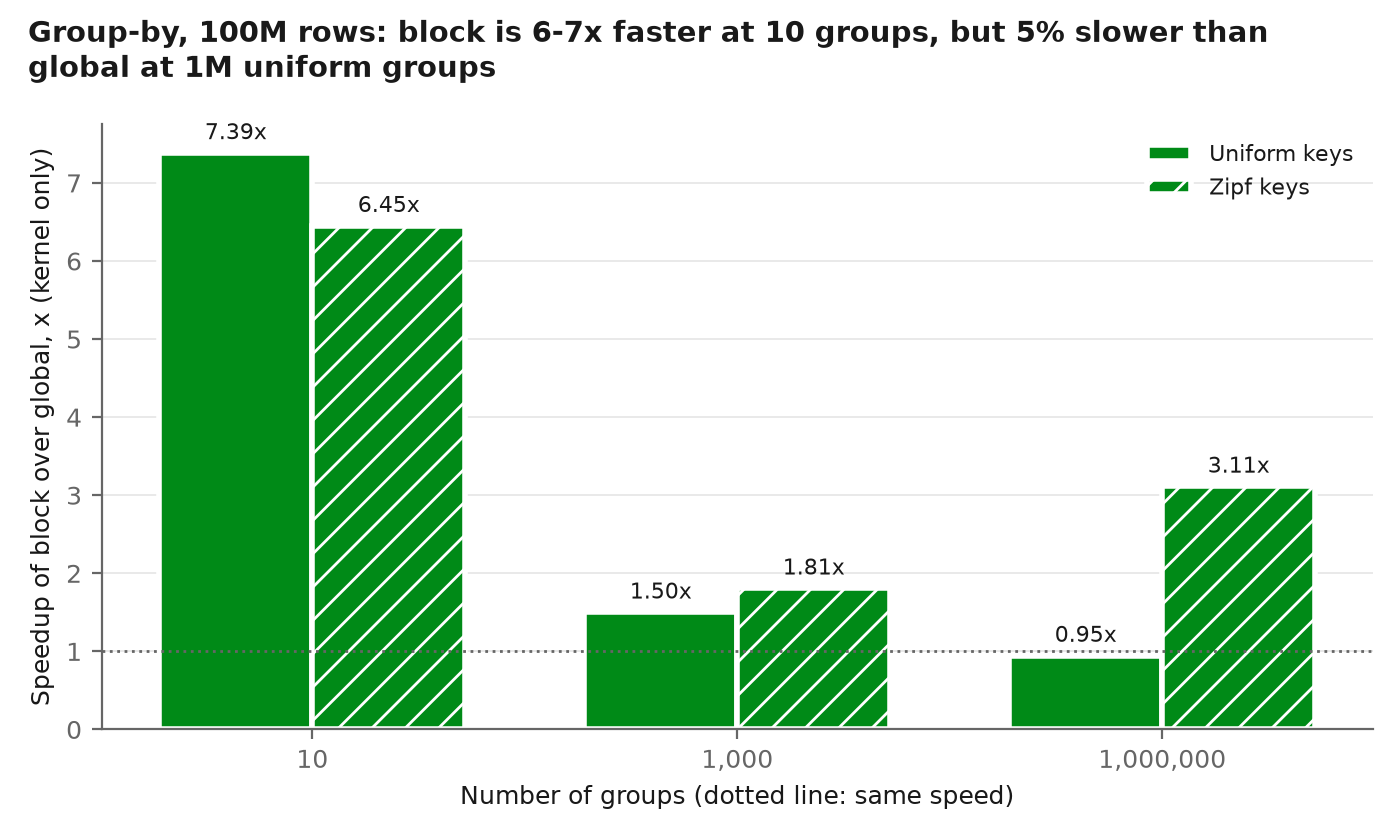
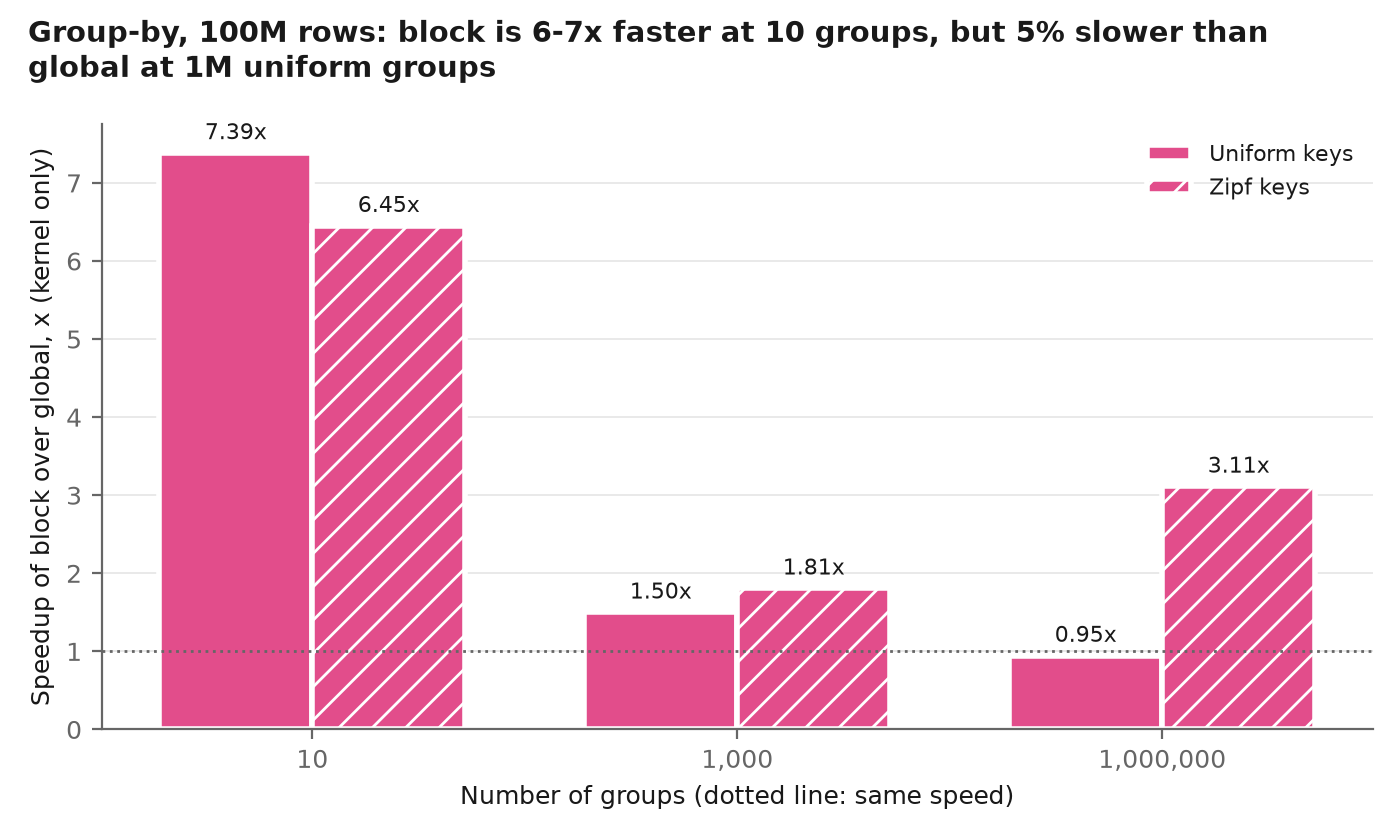
Rerun filter crossover points; chart colors and end labels
filter.csv: 50M and 200M at 10% for pandas, Polars, DuckDB and GPU
pageable/pinned, plus pandas 100M, rerun 3x; medians stored. plot.py: GPU
is magenta in every chart (four engine colors pass the validator on all
pairs), no legend on the line charts, and end labels are pushed apart
so none overlap.

diff --git a/benchmarks/plot.py b/benchmarks/plot.py
@@ -14,16 +14,14 @@ from matplotlib.ticker import FuncFormatter
 RESULTS = Path(__file__).parent / "results"
 FIGS = Path(__file__).parent.parent / "docs" / "figures"
 
-# One color per engine in every chart. Slots 1-6 of the dataviz reference palette,
-# in its validated order (colorblind-safe on adjacent pairs, light surface).
-COLOR = {
-    "pandas": "#257de0", "polars": "#f47230", "duckdb": "#00b894",
-    "filter_own": "#f2a600", "global": "#ee7fac", "block": "#008a17",
-}
+# One color per engine in every chart, from the dataviz reference palette. These four pass
+# the validator on ALL pairs (colorblind and normal vision, light surface). All GPU lines
+# share one color; line style tells GPU variants apart.
+COLOR = {"pandas": "#257de0", "polars": "#f2a600", "duckdb": "#008a17", "gpu": "#e24d8b"}
 COPY_GRAY = "#9c9c9c"  # not an engine: the copy part of a GPU bar
 TEXT, TEXT2, GRID = "#191919", "#666666", "#e5e5e5"
-LABEL = {"pandas": "pandas", "polars": "Polars", "duckdb": "DuckDB",
-         "global": "GPU global (pinned)", "block": "GPU block (pinned)"}
+LABEL = {"pandas": "pandas", "polars": "Polars", "duckdb": "DuckDB"}
+LABEL_GAP_PT = 12  # smallest vertical distance between two end labels
 
 plt.rcParams.update({
     "font.size": 9, "axes.edgecolor": TEXT2, "axes.labelcolor": TEXT, "text.color": TEXT,
@@ -48,18 +46,35 @@ def plain_fmt(x, _):
     return f"{x:,.0f}" if x >= 1 else f"{x:g}"
 
 
-def line(ax, xs, ys, key, label, dashed=False, dy=0):
-    """2px line with markers and a direct label at its right end (text stays in text ink).
-    dy moves the label up or down in points when two lines end at about the same value."""
+def line(ax, xs, ys, key, label, dashed=False):
+    """2px line with markers. Returns its end point and label for end_labels()."""
     ax.plot(xs, ys, color=COLOR[key], lw=2, ls="--" if dashed else "-", marker="o", ms=5,
-            mec="white", mew=1, label=label)
-    ax.annotate(label, (xs[-1], ys[-1]), xytext=(6, dy), textcoords="offset points",
-                va="center", fontsize=8, color=TEXT)
+            mec="white", mew=1)
+    return xs[-1], ys[-1], label
 
 
-def save(fig, name, title):
+def end_labels(ax, ends):
+    """Write each line's label at its right end, pushed apart so no two overlap.
+    Works in screen points, so it is right on log and linear axes. Text stays in text ink."""
+    ax.set_ylim(ax.get_ylim())  # freeze the axis so the positions below stay true
+    pt = 72 / ax.figure.dpi
+    ends = sorted(ends, key=lambda e: ax.transData.transform(e[:2])[1])
+    want = [ax.transData.transform(e[:2])[1] * pt for e in ends]
+    placed = []
+    for y in want:  # bottom to top: each label at least LABEL_GAP_PT above the one below
+        placed.append(max(y, placed[-1] + LABEL_GAP_PT) if placed else y)
+    shift = (sum(want) - sum(placed)) / len(placed)  # center the group on its lines again
+    for (x, y, text), w, p in zip(ends, want, placed):
+        ax.annotate(text, (x, y), xytext=(6, p + shift - w), textcoords="offset points",
+                    va="center", fontsize=8, color=TEXT)
+
+
+def save(fig, name, title, ends=None):
+    """ends = (ax, end points): labels go on after the layout is final, so they are placed right."""
     fig.suptitle(textwrap.fill(title, 75), x=0.02, ha="left", fontsize=10.5, fontweight="bold")
     fig.tight_layout()
+    if ends:
+        end_labels(*ends)
     fig.savefig(FIGS / name, dpi=200, facecolor="white")
     plt.close(fig)
     print("wrote", FIGS / name)
@@ -68,21 +83,20 @@ def save(fig, name, title):
 def filter_crossover(f):
     sizes = sorted({int(k[1]) for k in f})
     fig, ax = plt.subplots(figsize=(8, 4.6))
-    # Polars and GPU pageable end close together: split their labels.
-    for e, dy in (("pandas", 0), ("polars", -5), ("duckdb", 0)):
-        line(ax, sizes, [f[(e, str(n), "10", "cpu")] for n in sizes], e, LABEL[e], dy=dy)
-    for mode, dashed, dy in (("e2e_pageable", True, 5), ("e2e_pinned", False, 0)):
+    ends = [line(ax, sizes, [f[(e, str(n), "10", "cpu")] for n in sizes], e, LABEL[e])
+            for e in ("pandas", "polars", "duckdb")]
+    for mode, dashed in (("e2e_pageable", True), ("e2e_pinned", False)):
         ys = [f[("filter_own", str(n), "10", mode)] for n in sizes]
-        line(ax, sizes, ys, "filter_own", f"GPU filter {mode[4:]}", dashed, dy)
+        ends.append(line(ax, sizes, ys, "gpu", f"GPU filter {mode[4:]}", dashed))
     ax.set(xscale="log", yscale="log", xlabel="Rows (log scale)",
            ylabel="Median time, ms (log scale)")
     ax.xaxis.set_major_formatter(FuncFormatter(rows_fmt))
     ax.yaxis.set_major_formatter(FuncFormatter(plain_fmt))
     ax.set_xticks(sizes)
     ax.set_xlim(right=sizes[-1] * 3.2)  # room for the end labels
-    ax.legend(loc="upper left", fontsize=8)
     save(fig, "filter_crossover.png", "Filter, 10% selectivity: GPU beats pandas and DuckDB at "
-         "every size. Pinned beats Polars from 10M rows; pageable beats it only at 10M")
+         "every size. Pinned beats Polars from 10M rows; pageable beats it only at 10M",
+         (ax, ends))
 
 
 def filter_time_split(f):
@@ -94,7 +108,7 @@ def filter_time_split(f):
     copies[0] = 0.0  # kernel_only has no copy by definition
     fig, ax = plt.subplots(figsize=(7, 4.2))
     x = range(len(modes))
-    ax.bar(x, [kernel] * 3, width=0.55, color=COLOR["filter_own"], label="Kernel",
+    ax.bar(x, [kernel] * 3, width=0.55, color=COLOR["gpu"], label="Kernel",
            edgecolor="white", linewidth=2)
     ax.bar(x, copies, bottom=kernel, width=0.55, color=COPY_GRAY,
            label="Copy and transfer overhead", edgecolor="white", linewidth=2)
@@ -114,22 +128,19 @@ def filter_time_split(f):
 def groupby_by_groups(g):
     n, groups = "100000000", [10, 1_000, 1_000_000]
     fig, ax = plt.subplots(figsize=(8, 4.6))
-    # pandas and DuckDB end at about the same time, and so do global and block: split the labels.
-    for e, dy in (("pandas", -7), ("polars", 0), ("duckdb", 7)):
-        ys = [g[(e, "-", n, str(k), "uniform", "cpu")] for k in groups]
-        line(ax, groups, ys, e, LABEL[e], dy=dy)
-    for st, dy in (("global", -7), ("block", 7)):
+    ends = [line(ax, groups, [g[(e, "-", n, str(k), "uniform", "cpu")] for k in groups],
+                 e, LABEL[e]) for e in ("pandas", "polars", "duckdb")]
+    for st, dashed in (("global", True), ("block", False)):
         ys = [g[("hash_groupby", st, n, str(k), "uniform", "e2e_pinned")] for k in groups]
-        line(ax, groups, ys, st, LABEL[st], dy=dy)
+        ends.append(line(ax, groups, ys, "gpu", f"GPU {st} (pinned)", dashed))
     ax.set(xscale="log", yscale="log", xlabel="Number of groups (log scale)",
            ylabel="Median time, ms (log scale)")
     ax.set_xticks(groups)
     ax.xaxis.set_major_formatter(FuncFormatter(plain_fmt))
     ax.yaxis.set_major_formatter(FuncFormatter(plain_fmt))
     ax.set_xlim(5, 2e7)  # room for the end labels
-    ax.legend(loc="upper left", fontsize=8)
     save(fig, "groupby_by_groups.png", "Group-by, 100M rows, uniform keys: GPU block beats every "
-         "CPU engine at all group counts; global loses to Polars at 10")
+         "CPU engine at all group counts; global loses to Polars at 10", (ax, ends))
 
 
 def groupby_block_speedup(g):
@@ -141,7 +152,7 @@ def groupby_block_speedup(g):
               g[("hash_groupby", "block", n, k, dist, "kernel_only")] for k in groups]
         xs = [i + (j - 0.5) * w for i in range(len(groups))]
         # Same engine (block) both times: texture, not a second hue, tells the keys apart.
-        ax.bar(xs, sp, width=w, color=COLOR["block"], hatch="//" if dist == "zipf" else None,
+        ax.bar(xs, sp, width=w, color=COLOR["gpu"], hatch="//" if dist == "zipf" else None,
                edgecolor="white", linewidth=2, label=f"{dist.capitalize()} keys")
         for x, s in zip(xs, sp):
             ax.annotate(f"{s:.2f}x", (x, s), xytext=(0, 3), textcoords="offset points",

diff --git a/docs/known-issues.md b/docs/known-issues.md
@@ -11,7 +11,8 @@
 - Group-by needs the caller to give expected_groups. Too low gives an error, too high wastes memory.
 - Group-by output is in slot (hash) order, not key order.
 - CPU rerun, 3x each (2026-11-26): Polars 1K Zipf 100M 701/718/711 ms (repeats); Polars 1K 10M 49-55 ms uniform, 63-65 ms Zipf (repeats); DuckDB 1M uniform 100M 4175/6473/8673 ms (noisy, 2x spread; median of runs is within 5% of the CSV).
-- Filter rerun at 10%, 3x each (2026-11-26): pandas 100M gave 1676/1501/413 ms (two modes, fast and slow; cause unknown). The CSV now has 1501 ms (was 401). pandas 200M (793 ms) is now the suspect point, as it is faster than 100M. DuckDB 100M repeats (186/186/197 vs 181 ms). DuckDB 50M is noisy (262/363/293 ms), so its dip at 100M is probably 50M noise.
+- Filter crossover rerun at 10%, 3x each, medians in `filter.csv` (2026-11-26): 50M and 200M for all 5 lines, pandas 100M. The old 50M points were slow for every CPU engine (pandas 627 to 194 ms). pandas 100M has two modes (earlier runs 1676/1501/413, now 586/393/396 ms); the CSV has 396 ms.
+- GPU filter e2e_pageable still goes down from 50M to 100M (64.3 to 59.9 ms). The 50M runs had a wide spread (75/64/53 ms); 100M was not rerun. All other crossover lines go up with rows.
 - Chart titles are fixed text. Rerun the benchmarks and the titles can be wrong.
 - Group-by rerun (2026-11-26, both strategies): the old GPU 10M 1K-groups point (7.7 ms) is now 1.99 ms, below e2e_pinned. Still suspect: Polars 1K Zipf at 100M is 710 ms vs 106 ms uniform (also 717 ms in the first run, so it repeats; cause unknown). Polars 1K groups at 10M is 48 ms, 4.8 ms per 1M rows, vs 1.1 ms per 1M rows at 100M. DuckDB 1M uniform groups at 100M is 6815 ms, 4x its Zipf time.
 - Group-by with 1M groups: the table is 2M slots x 16 bytes = 32 MB, about the size of the L2 cache, so the random atomics go to DRAM. That is why 1M groups is slower than 1K groups.

diff --git a/docs/decisions.md b/docs/decisions.md
@@ -22,5 +22,5 @@
 - Block group-by: each block takes 4096 rows (16 per thread), not 256. With one row per thread, a block sees at most 256 keys, so a 1024-slot table can never fill and there would be no fallback case to test.
 - Shared table: 1024 slots x 16 bytes = 16 KB per block. A row probes at most 32 shared slots, then goes straight to the global table, so a full shared table does not cost 1024 probes per row.
 - `groupby.csv` keeps one `engine` (`hash_groupby`) and adds a `strategy` column, so a filter on one column picks a strategy. CPU rows have `-`.
-- Charts: one fixed color per engine (dataviz reference palette slots 1-6, validator pass on light surface). Copy time = e2e time minus kernel_only time, so it includes allocation overhead. Uniform vs Zipf use texture, not a second hue, because both are the block engine.
+- Charts: one fixed color per engine: pandas blue, Polars yellow, DuckDB green, GPU magenta. These four pass the dataviz validator on all pairs, not only adjacent ones. All GPU variants share magenta; dashed = pageable or global. No legend on line charts; end labels are pushed apart in screen points so none overlap. Copy time = e2e time minus kernel_only time, so it includes allocation overhead. Uniform vs Zipf use texture, not a second hue.
 - One `__device__ add_global` for both strategies and for the flush, so there is only one global probe loop.

diff --git a/docs/progress.md b/docs/progress.md
@@ -18,7 +18,7 @@
 - Block vs global kernel_only: 10 groups 5.4 to 7.4x faster, 1K groups 1.3 to 1.8x faster, 1M groups uniform about equal (5.6% slower at 100M), 1M groups Zipf 2.8 to 3.1x faster.
 - Block e2e pinned now beats Polars at 10 groups: 5.1 vs 10.4 ms at 10M, 43.1 vs 88.4 ms at 100M (uniform), about 2x.
 - `benchmarks/plot.py` writes 4 PNGs to `docs/figures/` (filter crossover, filter time split, group-by by groups, block speedup).
-- Filter pandas 100M 10% rerun: `filter.csv` updated 401 to 1501 ms. Chart 1 title fixed.
+- Filter crossover points (10%, 50M, 100M pandas, 200M) rerun 3x; medians in `filter.csv`. Charts: new GPU color, no legends on line charts, end labels never overlap.
 - Reran suspect CPU points 3x each: none changed more than 20%, so `groupby.csv` stays.
 - /reflect: 4 new rules in CLAUDE.md (int64 sums in every engine, check cited paths with gh api, run new tests red first, racecheck and synccheck for kernels with barriers).
 
